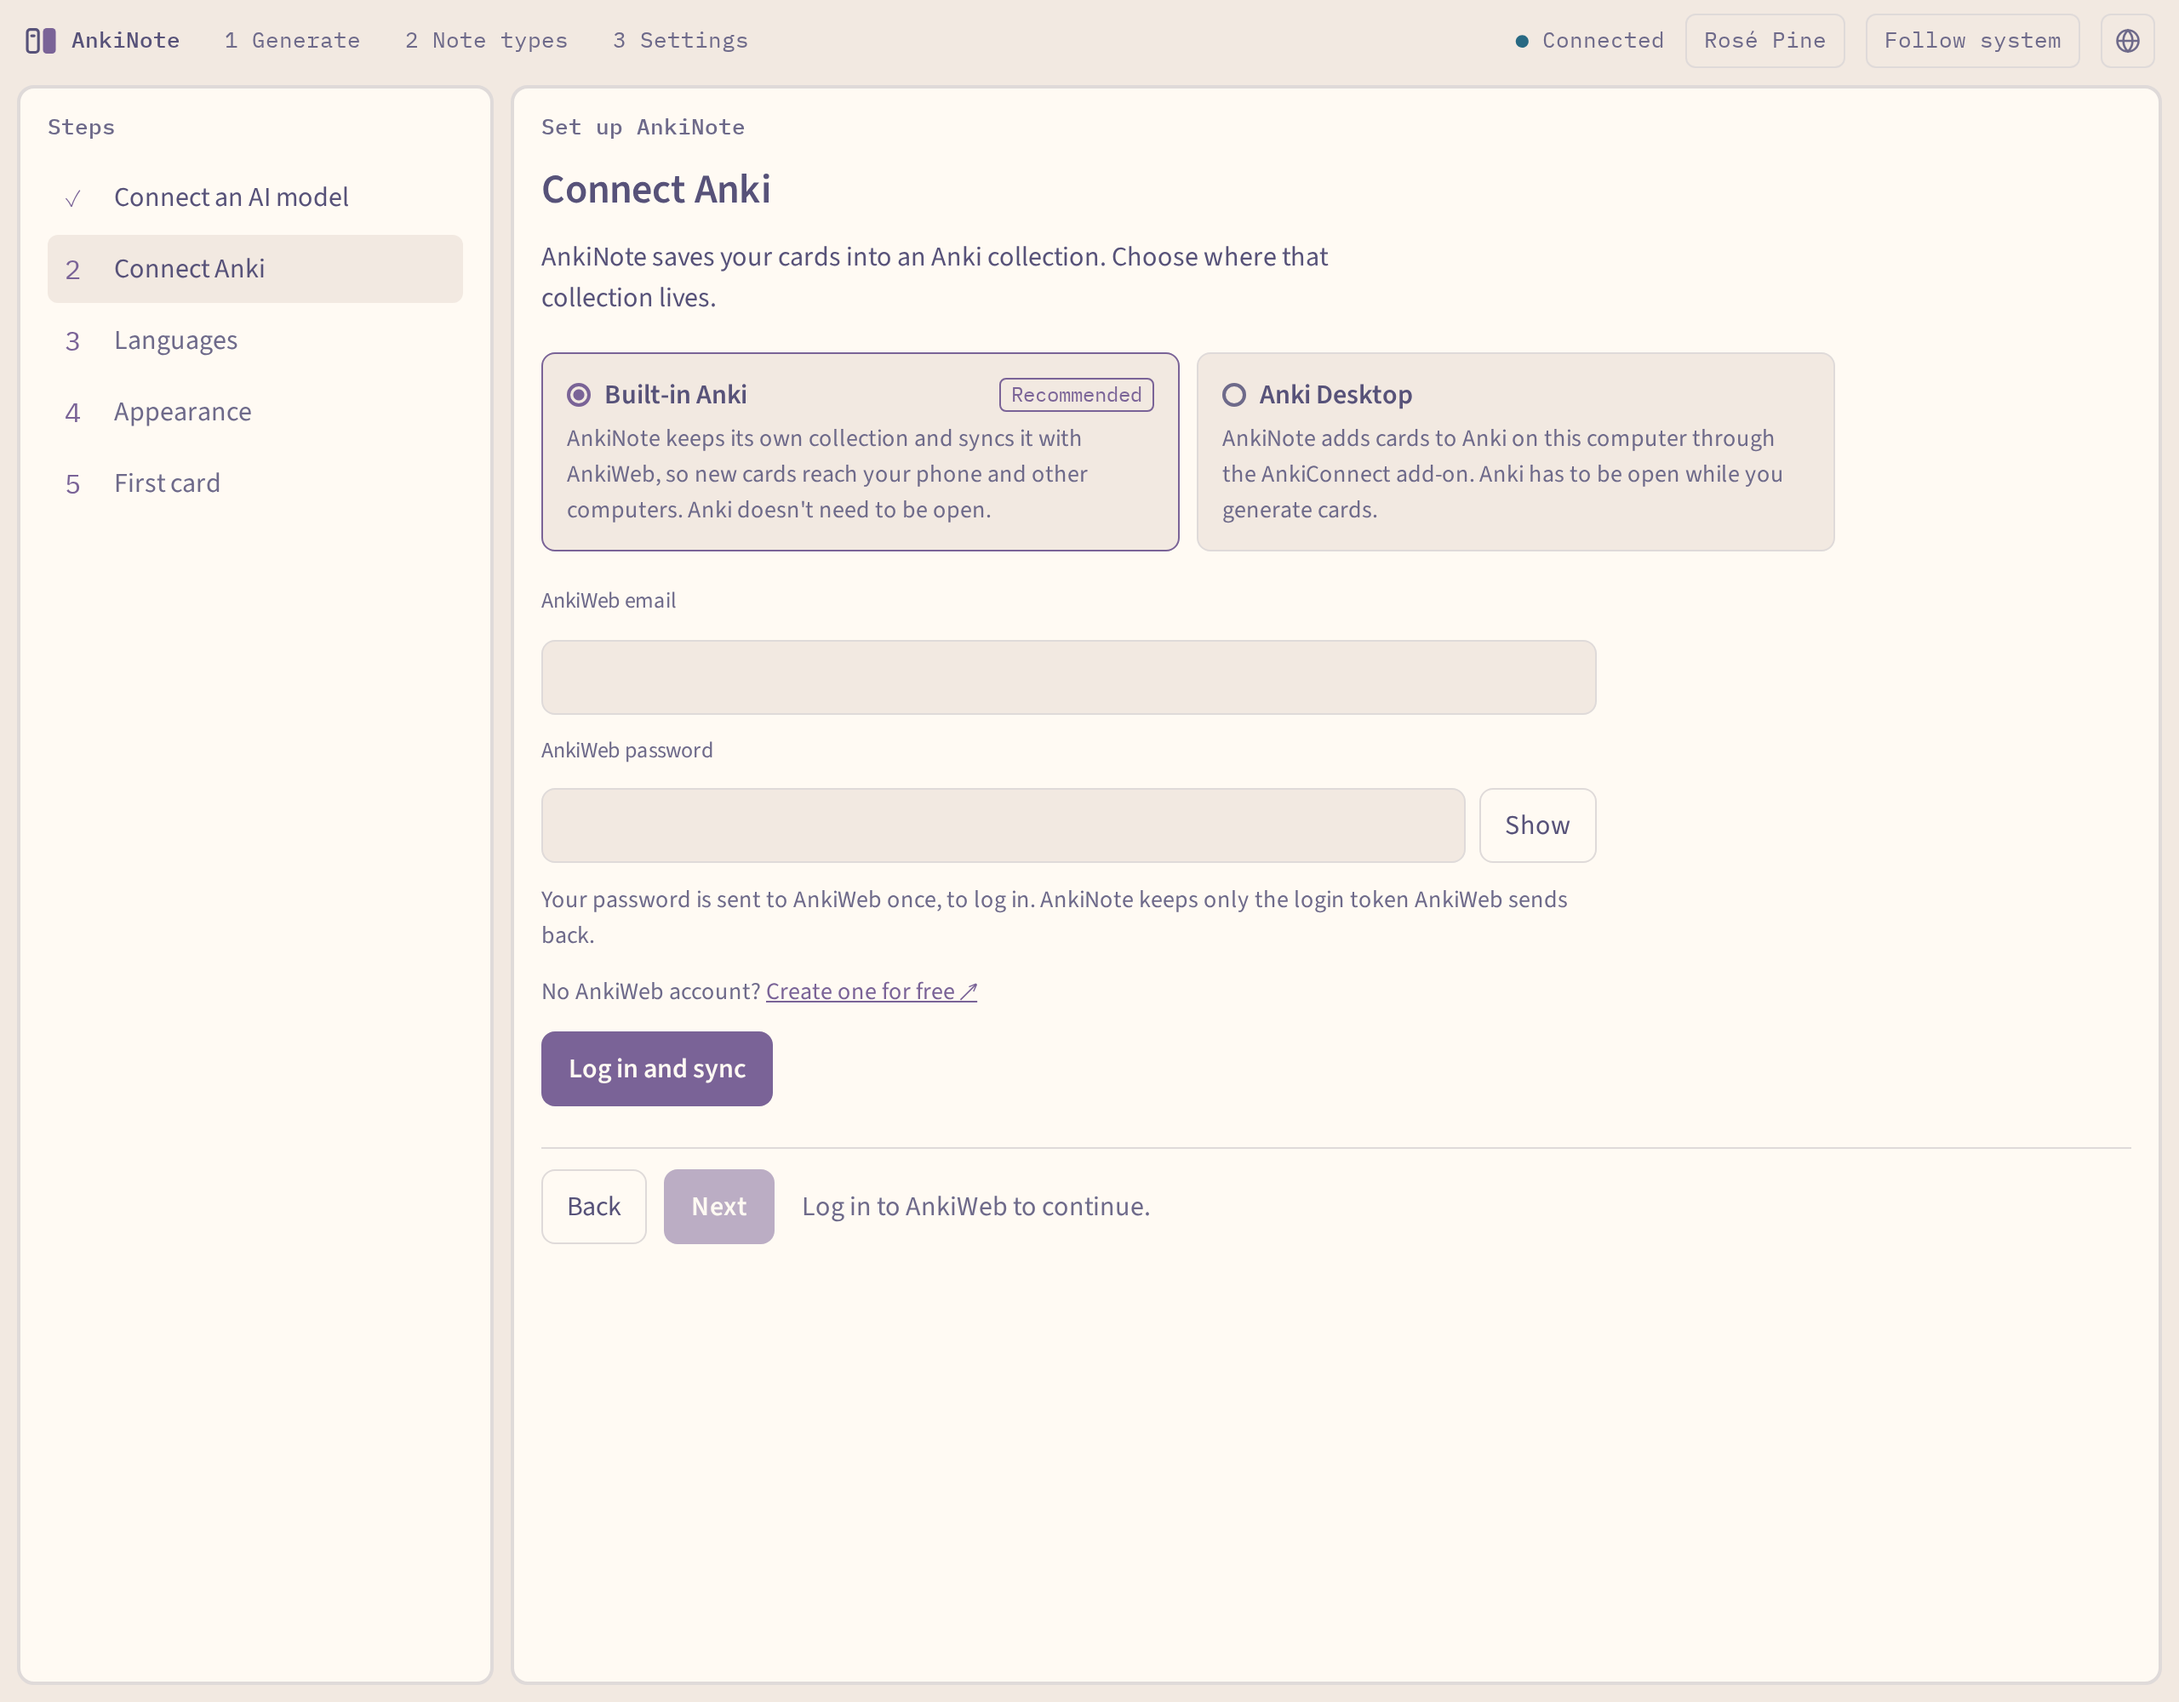
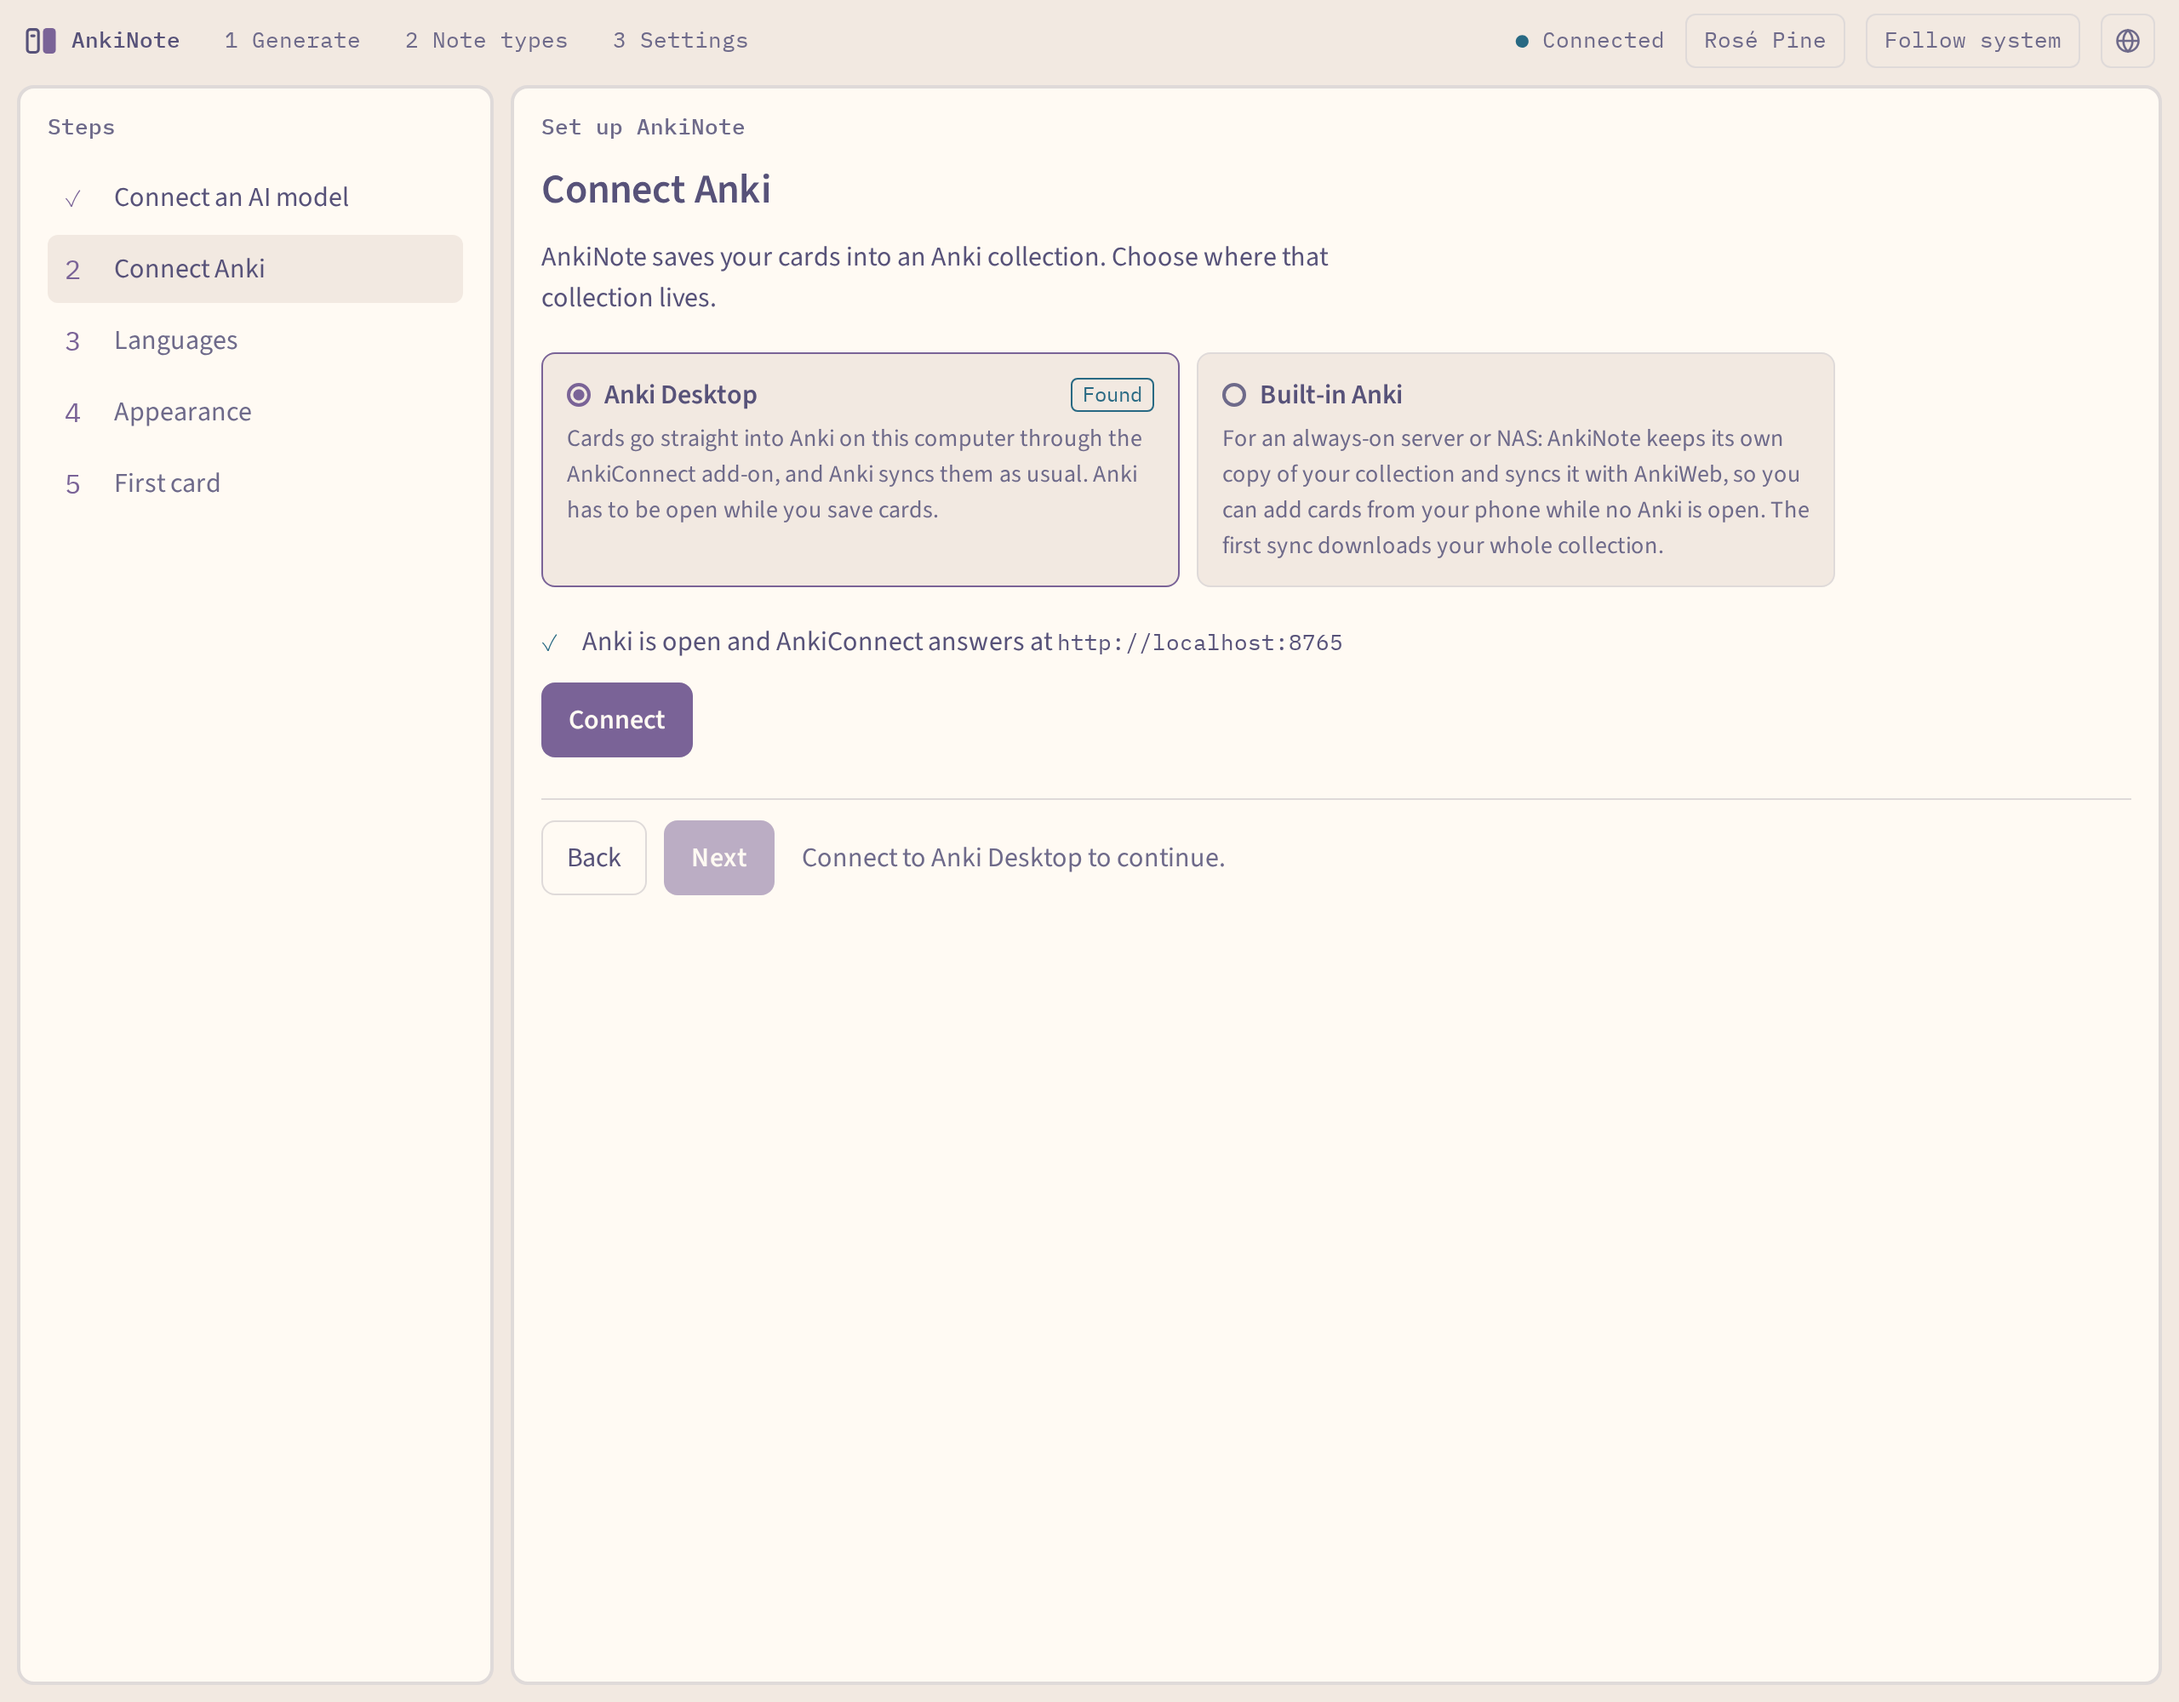
docs: recapture the Connect Anki screenshot with Anki Desktop found
The wizard now preselects Anki Desktop, so the README shot shows it found
and not yet connected. readme-media gains an `anki` target and
fake_desktop.py, which answers as AnkiConnect on localhost:8765 from a
throwaway collection, so the shot doesn't depend on a running Anki.

Claude-Session: https://claude.ai/code/session_01AQNTJ5vrJ9xxfSQxLiEEi3

diff --git a/.agents/skills/readme-media/scripts/capture.py b/.agents/skills/readme-media/scripts/capture.py
@@ -4,9 +4,10 @@ Run against an isolated server (see ../SKILL.md), with the UI in English:
 
     uv run --with playwright python capture.py --base http://127.0.0.1:8931 --out OUT [targets...]
 
-Targets (default: all, in this order): wizard themes word stem gif.
+Targets (default: all, in this order): wizard anki themes word stem gif.
 `wizard` saves and tests the Gemini key from GEMINI_KEY_FILE, which the
 other targets need; `word`, `stem` and `gif` each spend one real generation.
+`anki` needs AnkiConnect answering (fake_desktop.py) and any saved key.
 Files land in OUT under their docs/img names; review them before copying.
 """
 
@@ -76,8 +77,16 @@ async def wizard(browser, base, out):
         "() => [...document.querySelectorAll('button')].some(b => b.textContent.trim()==='Next' && !b.disabled)",
         timeout=60_000,
     )
+    await pg.close()
+
+
+async def anki(browser, base, out):
+    # Step 2 as a first-time user on the computer Anki runs on sees it:
+    # Anki Desktop found, not connected yet.
+    pg = await page(browser, base, "/wizard", height=1000)
     await pg.get_by_role("button", name="Next").click()
-    await pg.wait_for_timeout(1500)
+    await pg.locator(".tag.found").wait_for(timeout=15_000)
+    await pg.wait_for_timeout(500)
     await pg.mouse.move(0, 0)
     await pg.screenshot(path=str(out / "wizard-anki-account.png"))
     await pg.close()
@@ -206,6 +215,7 @@ async def gif(browser, base, out):
 
 TARGETS = {
     "wizard": wizard,
+    "anki": anki,
     "themes": themes,
     "word": lambda b, base, out: showcase(b, base, out, "word"),
     "stem": lambda b, base, out: showcase(b, base, out, "stem"),

diff --git a/.agents/skills/readme-media/scripts/fake_desktop.py b/.agents/skills/readme-media/scripts/fake_desktop.py
@@ -1,0 +1,45 @@
+"""Answer as Anki Desktop with AnkiConnect on 127.0.0.1:8765, for the wizard shot.
+
+Backed by a throwaway collection in DIR, through the test suite's
+AnkiConnect fake (real ``anki`` library, real HTTP). Runs until stopped.
+
+    uv run python .agents/skills/readme-media/scripts/fake_desktop.py DIR
+"""
+
+import asyncio
+import sys
+import threading
+from pathlib import Path
+
+ROOT = Path(__file__).resolve().parents[4]
+sys.path.insert(0, str(ROOT / "tests" / "services"))
+
+import fake_anki_connect_server as fake
+
+from ankinote.services.collection_runtime import CollectionRuntime
+
+PORT = 8765
+
+
+class _Server(fake._Server):
+    def __init__(self, runtime, loop):
+        fake.ThreadingHTTPServer.__init__(self, ("127.0.0.1", PORT), fake._Handler)
+        self.runtime = runtime
+        self.loop = loop
+
+
+async def main(directory: Path) -> None:
+    directory.mkdir(parents=True, exist_ok=True)
+    runtime = CollectionRuntime(str(directory / "collection.anki2"))
+    await runtime.open()
+    server = _Server(runtime, asyncio.get_running_loop())
+    threading.Thread(target=server.serve_forever, daemon=True).start()
+    print(f"AnkiConnect fake on http://127.0.0.1:{PORT}", flush=True)
+    try:
+        await asyncio.Event().wait()
+    finally:
+        server.shutdown()
+        await runtime.close()
+
+
+asyncio.run(main(Path(sys.argv[1])))

diff --git a/.agents/skills/readme-media/SKILL.md b/.agents/skills/readme-media/SKILL.md
@@ -14,7 +14,7 @@ produces every one of them; this file covers what the script can't do.
 | `demo-hero.gif` | Generate: type a word, Ctrl+Enter, card front, Back, scroll, Front (960×600) |
 | `showcase-word.png`, `showcase-stem.png` | The `.preview` block on the Back side, whole card |
 | `themes-light.png`, `themes-dark.png` | Settings → Appearance, the Palette fieldset |
-| `wizard-api.png`, `wizard-anki-account.png` | Wizard steps 1–2, 1280×1000 |
+| `wizard-api.png`, `wizard-anki-account.png` | Wizard steps 1–2, 1280×1000; step 2 with Anki Desktop found, not yet connected |
 
 ## Run an isolated server
 
@@ -32,6 +32,12 @@ Never point the capture at the user's own config or their compose stacks.
    .agents/skills/readme-media/scripts/capture.py --out <scratch dir>`.
    Run `wizard` first (it saves and tests the key); pass target names to
    redo only some images.
+4. `anki` (step 2) needs AnkiConnect answering at the server's
+   `ANKI_CONNECT_URL` (default `localhost:8765`). Unless the user's own Anki
+   is there, run `uv run python .agents/skills/readme-media/scripts/fake_desktop.py
+   <scratch dir>` in the background first: a throwaway collection behind the
+   test suite's AnkiConnect fake. Any saved key gets past step 1, so `anki`
+   alone needs no real key.
 
 ## Check before copying
 
@@ -49,7 +55,7 @@ push.
 
 ## Clean up
 
-Stop the server by its background task or PID: `pkill -f ankinote-web`
+Stop the server (and `fake_desktop.py`) by its background task or PID: `pkill -f ankinote-web`
 also matches your own shell command, which kills it before the next step
 runs, and the user's containers run `ankinote-web` too. Then delete the key
 file and the scratch `settings.json` (it now holds the key).
